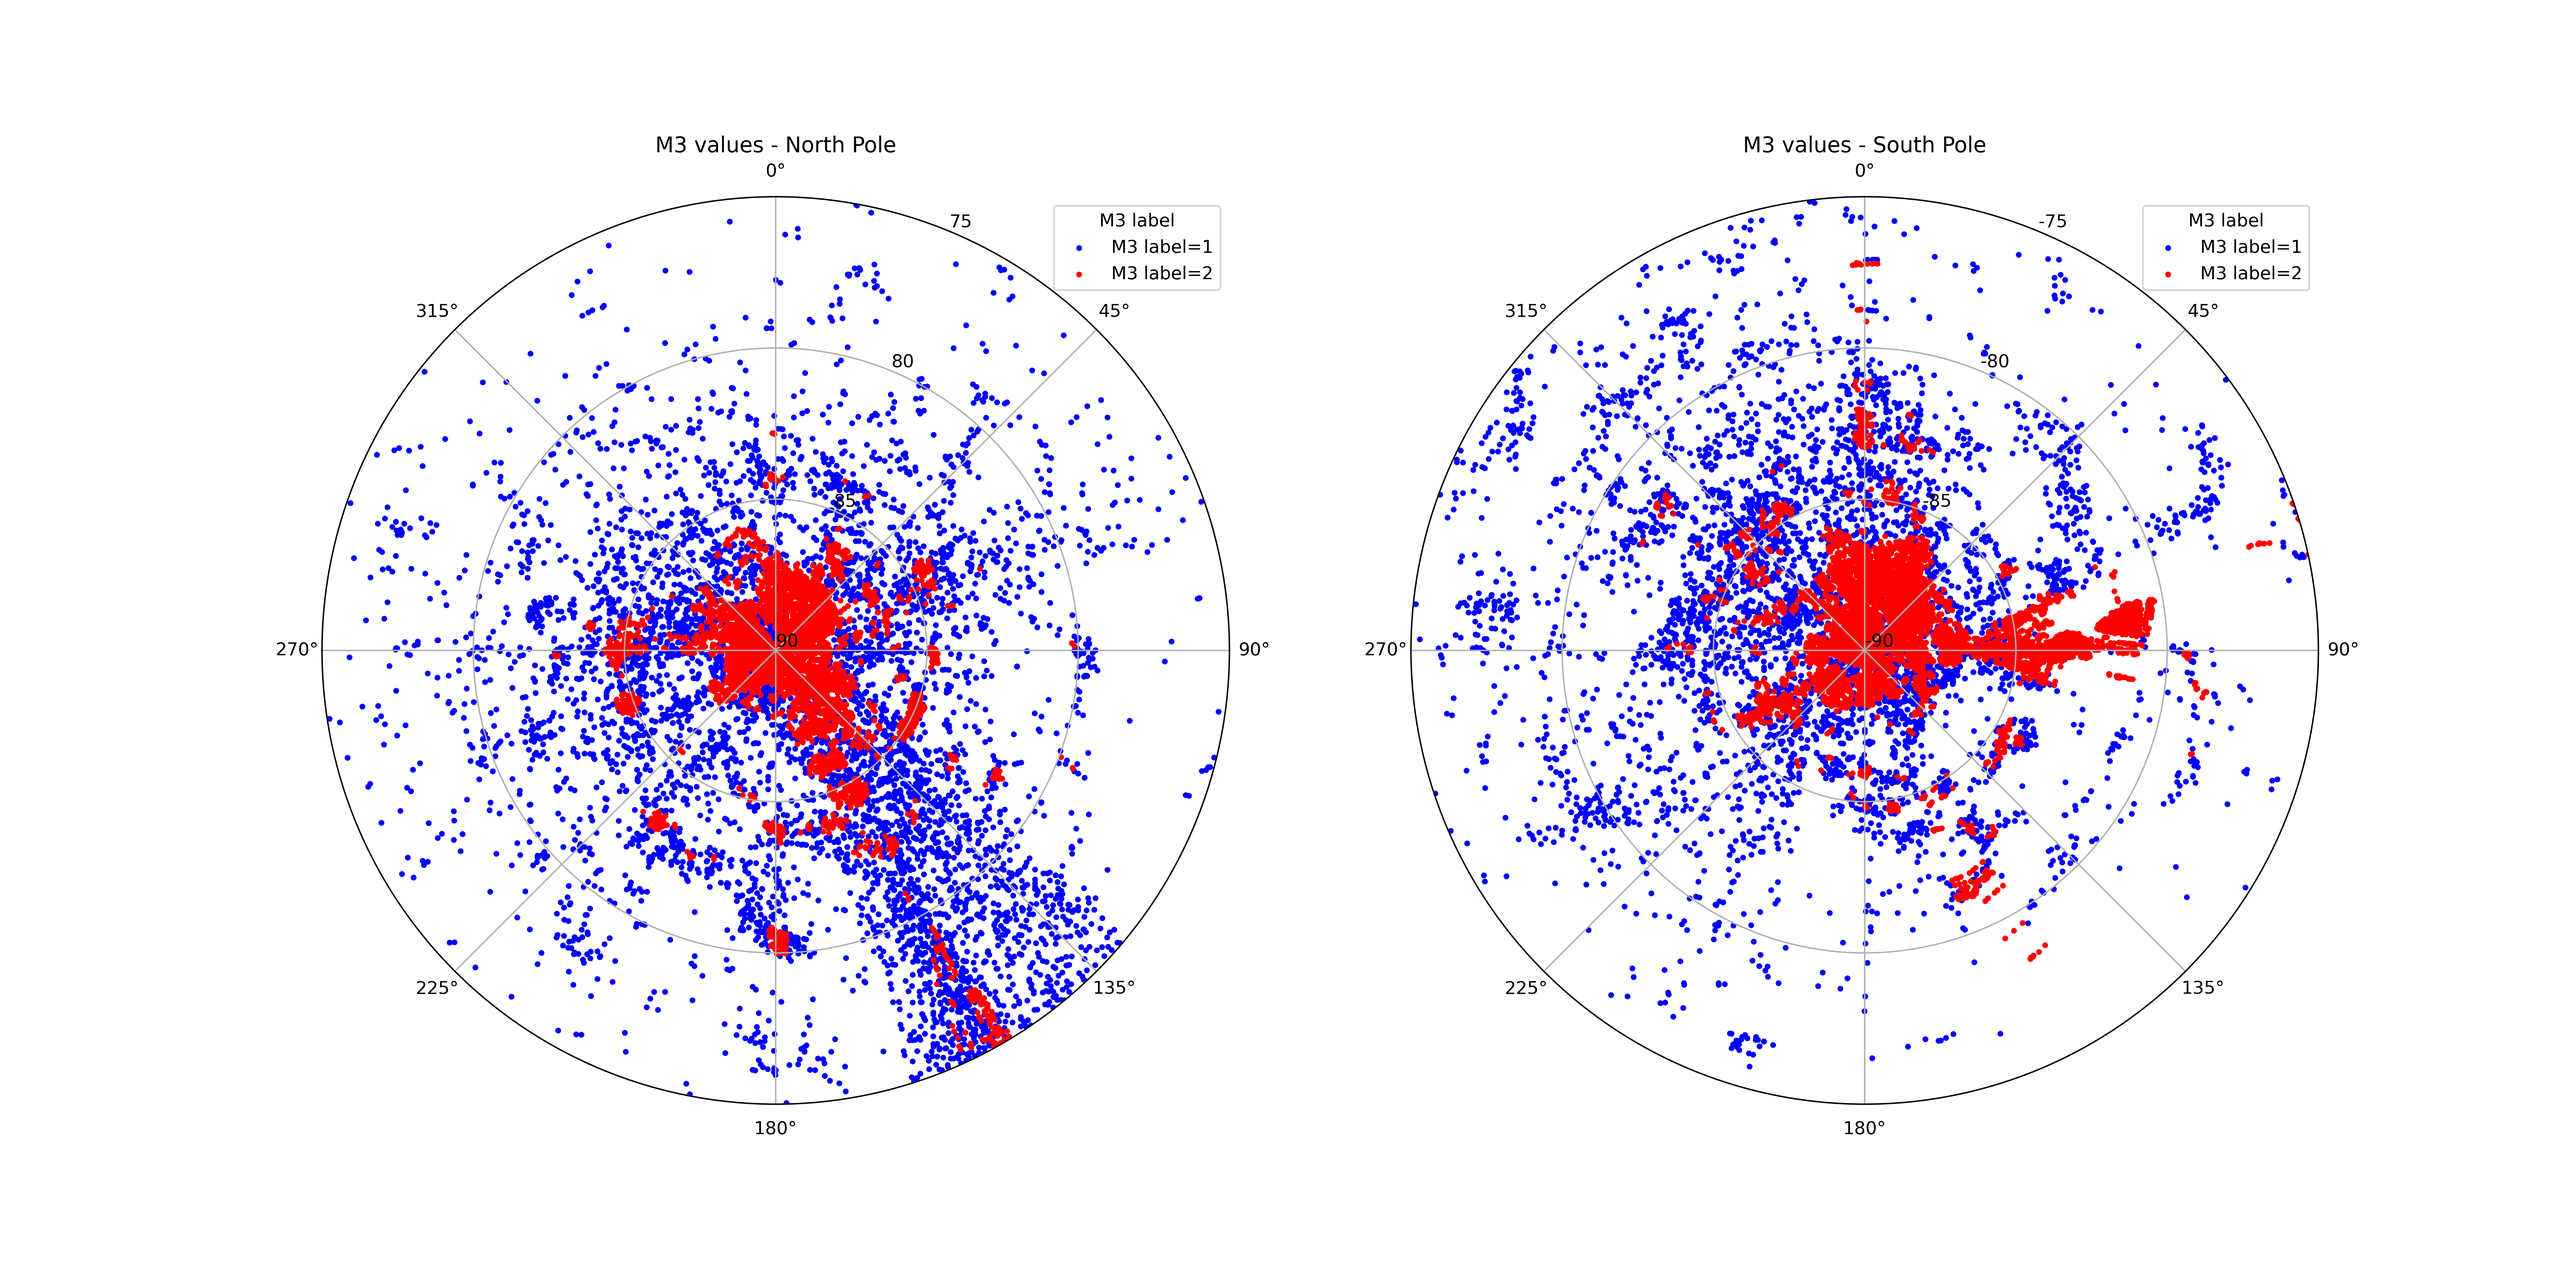
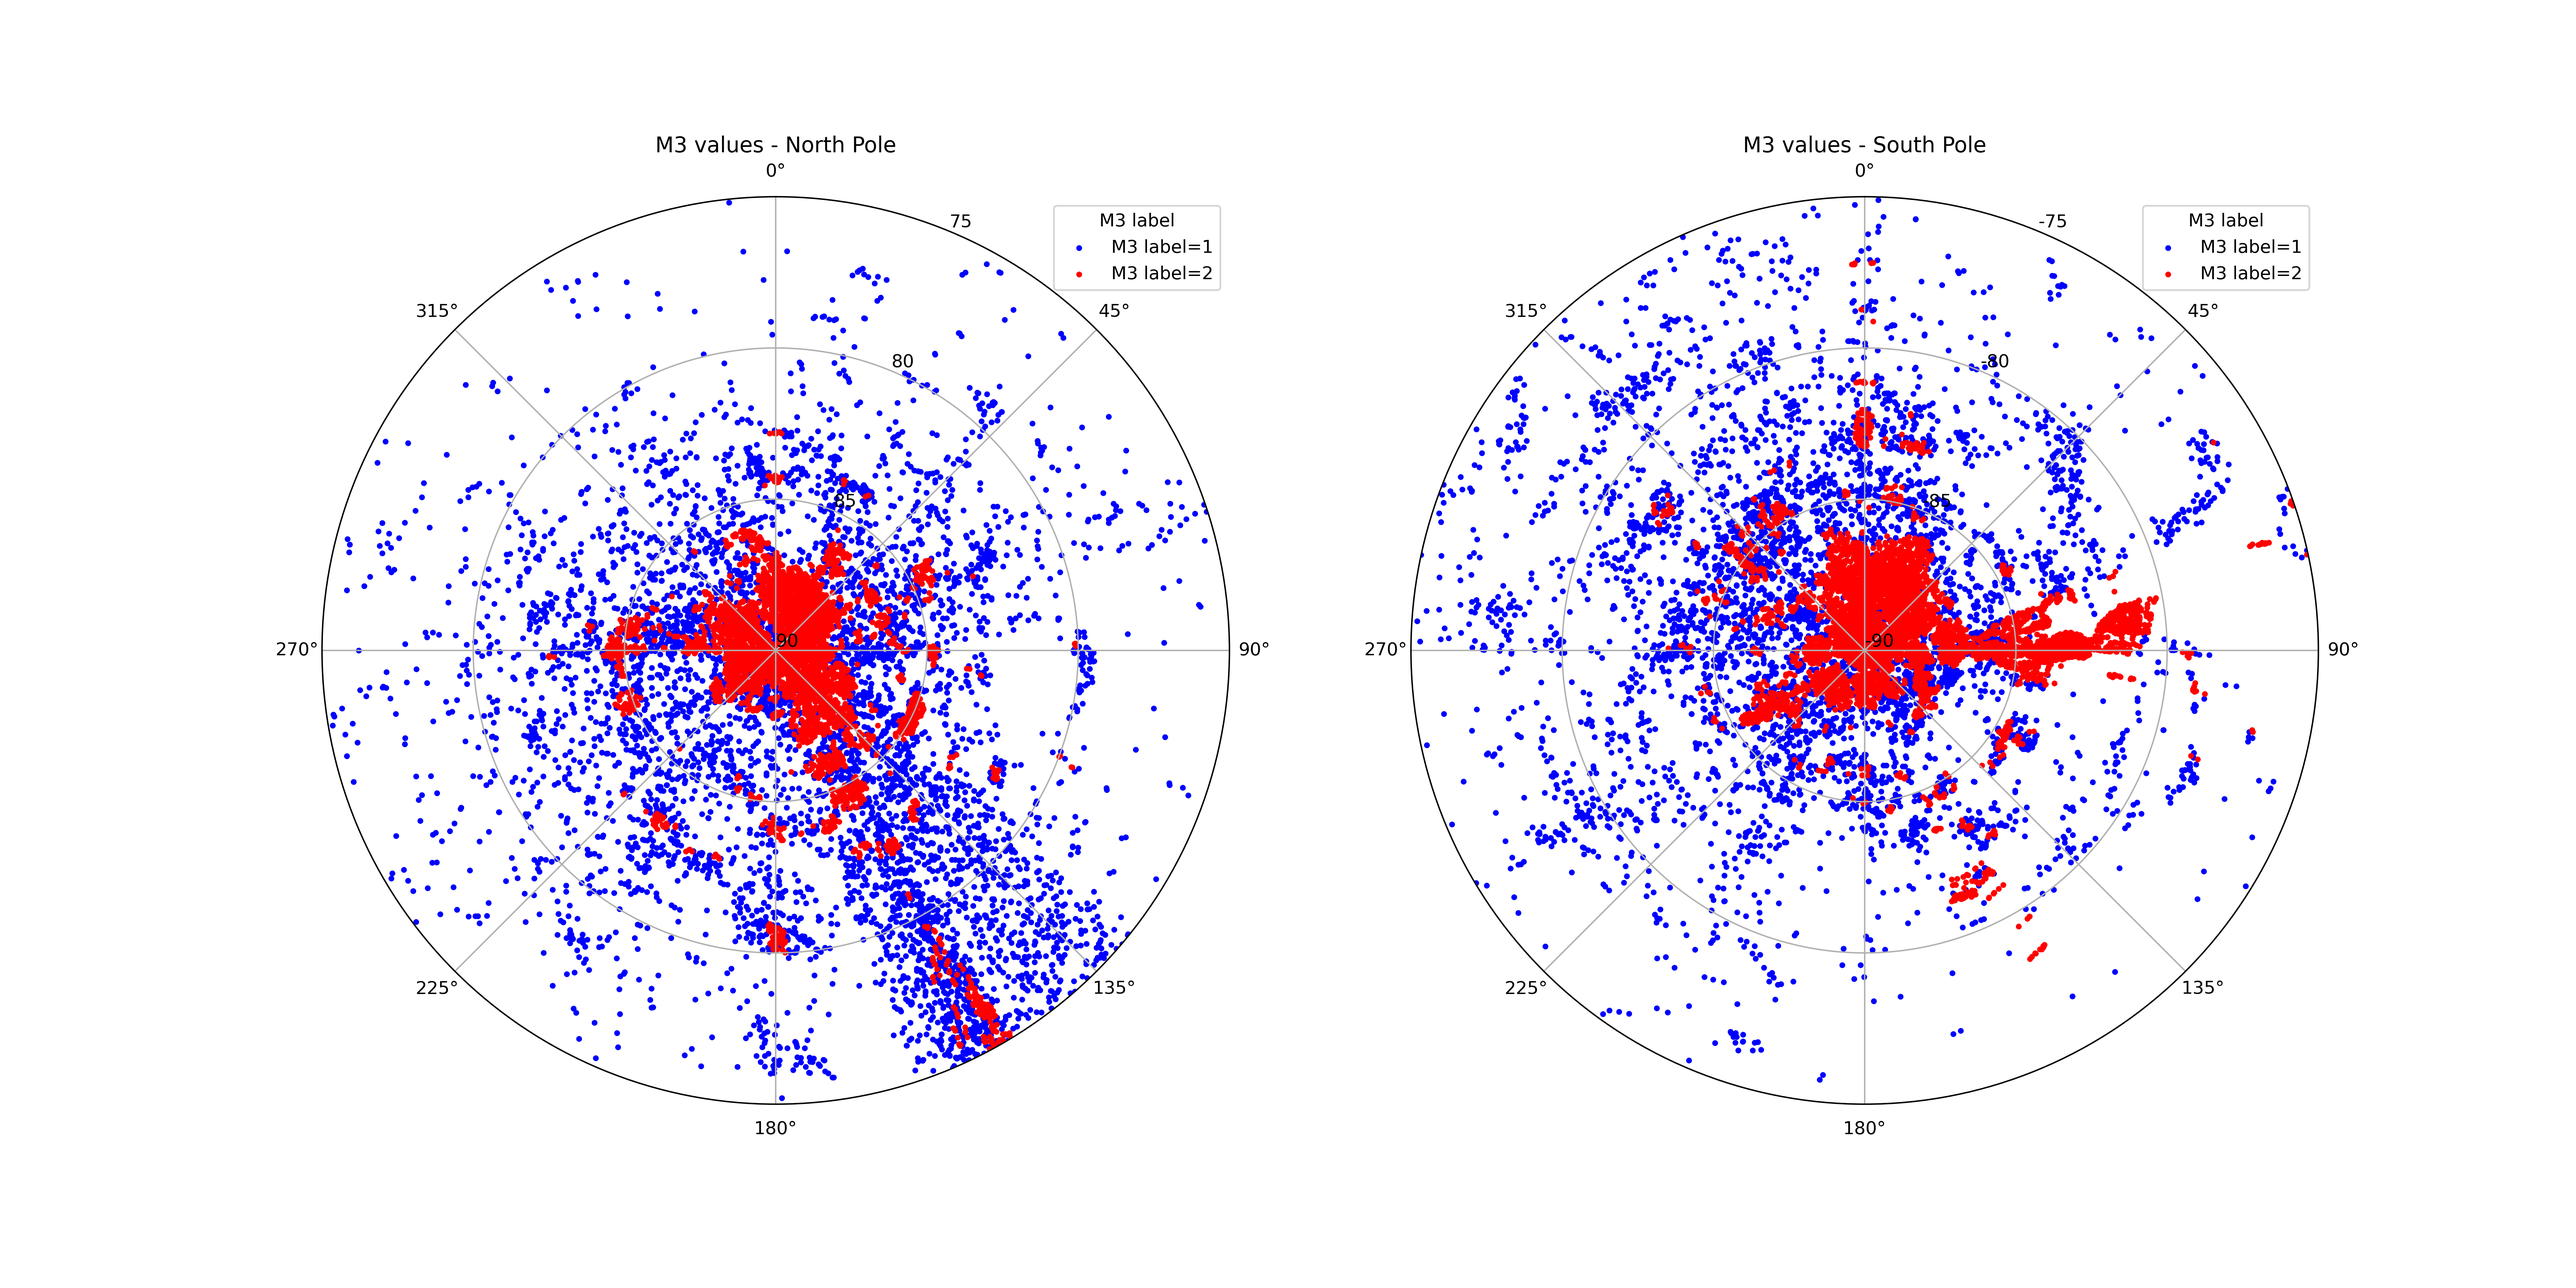
Final changes for SRW

diff --git a/data_processing/psr_test.py b/data_processing/psr_test.py
@@ -213,7 +213,7 @@ def merge_psr_df_2(psr_df, args, R_MOON_M=1_737_400):
     print("Original psr distribution:")
     print(psr_df["psr"].value_counts(normalize=True) * 100)
 
-    orig_val_cnt = combined_df["Label"].value_counts(normalize=True).mul(100).round(1).sort_index()
+    orig_val_cnt = combined_df["Label"].value_counts(normalize=True).mul(100).round(0).sort_index()
 
     combined_df_n = combined_df.loc[combined_df["Latitude"] >= 75].copy()
     combined_df_s = combined_df.loc[combined_df["Latitude"] <= -75].copy()
@@ -320,8 +320,8 @@ def merge_psr_df_2(psr_df, args, R_MOON_M=1_737_400):
 
     # print(f"\nLabel distribution after merging PSR data:")
     # print(df_merged["Label"].value_counts(normalize=True) * 100)
-    final_val_cnt = df_merged["Label"].value_counts(normalize=True).mul(100).round(1).sort_index()
-    assert np.all(final_val_cnt == orig_val_cnt), "Label proportions do not match original data"
+    final_val_cnt = df_merged["Label"].value_counts(normalize=True).mul(100).round(0).sort_index()
+    assert np.all(final_val_cnt == orig_val_cnt), f"Label proportions do not match original data: \n{final_val_cnt} \n!= \n{orig_val_cnt}"
     print("Final label distribution:")
     print(final_val_cnt)
 
@@ -434,23 +434,23 @@ def main(args):
     condition2 = (df_merged['Label'] >= lbl) & (df_merged['psr'] == 0)  # high label but NOT psr (FP)           - True -> 2
     condition3 = (df_merged['Label'] >= lbl) & (df_merged['psr'] == 1)  # BOTH high label and psr (TP)          - True -> 3
 
-    df_merged['temp'] = np.select(
+    df_merged['class'] = np.select(
         [condition1, condition2, condition3],
         [1, 2, 3],
         default=0  # Default value if none of the conditions are met
     )
     
-    print(f"Percentage of points with cat 0 (TN): {np.sum(df_merged['temp'] == 0) / df_merged.shape[0]:.2%}")
-    print(f"Percentage of points with cat 1 (FN): {np.sum(df_merged['temp'] == 1) / df_merged.shape[0]:.2%}")
-    print(f"Percentage of points with cat 2 (FP): {np.sum(df_merged['temp'] == 2) / df_merged.shape[0]:.2%}")
-    print(f"Percentage of points with cat 3 (TP): {np.sum(df_merged['temp'] == 3) / df_merged.shape[0]:.2%}")
+    print(f"Percentage of points with cat 0 (TN): {np.sum(df_merged['class'] == 0) / df_merged.shape[0]:.2%}")
+    print(f"Percentage of points with cat 1 (FN): {np.sum(df_merged['class'] == 1) / df_merged.shape[0]:.2%}")
+    print(f"Percentage of points with cat 2 (FP): {np.sum(df_merged['class'] == 2) / df_merged.shape[0]:.2%}")
+    print(f"Percentage of points with cat 3 (TP): {np.sum(df_merged['class'] == 3) / df_merged.shape[0]:.2%}")
 
-    plot_polar(df_merged, 'temp', args.plot_dir, mode='category', categories=[0, 1, 2, 3], cat_colours={0: 'black', 1: 'blue', 2: 'green', 3: 'red'}, frac=0.01, dpi=400, label_col='temp', poster=True)
+    plot_polar(df_merged, 'class', args.plot_dir, mode='category', categories=[0, 1, 2, 3], cat_colours={0: 'black', 1: 'blue', 2: 'green', 3: 'red'}, frac=0.01, dpi=400, label_col='class', poster=True)
     
     # Plot confusion matrix
     fig, ax = plt.subplots(figsize=(8, 6))
     labels = ['True Negatives', 'False Negatives', 'False Positives', 'True Positives']
-    counts = [np.sum(df_merged['temp'] == 0), np.sum(df_merged['temp'] == 1), np.sum(df_merged['temp'] == 2), np.sum(df_merged['temp'] == 3)]
+    counts = [np.sum(df_merged['class'] == 0), np.sum(df_merged['class'] == 1), np.sum(df_merged['class'] == 2), np.sum(df_merged['class'] == 3)]
     ax.bar(labels, counts, color=['black', 'blue', 'green', 'red'])
     ax.set_ylabel('Count')
     ax.set_title('Confusion Matrix')

diff --git a/data_processing/utils/utils.py b/data_processing/utils/utils.py
@@ -447,6 +447,88 @@ def plot_polar(
     print(f"Plot saved to {fname}")
     plt.close(fig)
 
+def plot_polar_overlay(
+    base_df,
+    overlay_df,
+    variable,
+    label_col,
+    save_path,
+    frac_base=0.1,
+    frac_overlay=0.01,
+    dpi=300,
+    poster=True,
+):
+    # 1) Prepare the two DataFrames
+    #   * sample them
+    base = base_df.sample(frac=frac_base, random_state=42)
+    over = overlay_df.sample(frac=frac_overlay, random_state=42)
+    
+    # 2) Compute polar coords
+    def to_polar(df, pole):
+        df = df.copy()
+        df['r'] = (90 - df['Latitude']) if pole=='north' else (90 + df['Latitude'])
+        df['theta'] = np.deg2rad(df['Longitude'])
+        return df
+
+    north_base = to_polar(base[base['Latitude'] >= 0], 'north')
+    south_base = to_polar(base[base['Latitude'] <  0], 'south')
+    north_over = to_polar(over[over['Latitude'] >= 0], 'north')
+    south_over = to_polar(over[over['Latitude'] <  0], 'south')
+
+    # 3) Make one figure
+    fig, (axN, axS) = plt.subplots(1, 2, subplot_kw={'projection': 'polar'}, figsize=(20, 10), facecolor='none')
+
+    for ax in (axN, axS):
+        pole = 'north' if ax == axN else 'south'
+        ax.set_facecolor('none')
+        ax.set_ylim(0,15)
+        ax.set_yticks(range(0,16,5))
+        labels = [str(90 - x) if pole == 'north' else str(-90 + x) for x in range(0, 16, 5)]
+        ax.set_yticklabels(labels)
+        ax.set_theta_zero_location('N')
+        ax.set_theta_direction(-1)
+
+    # 4) First, draw the background layer (interpolated → continuous greyscale)
+    def draw_continuous(ax, df):
+        sc = ax.scatter(
+            df['theta'], df['r'],
+            c=df[variable],
+            cmap='Greys_r',
+            s=5,
+            alpha=0.6,
+            zorder=1
+        )
+    
+    draw_continuous(axN, north_base)
+    draw_continuous(axS, south_base)
+
+    # 5) Then, on the very same axes, draw your labeled overlay
+    def draw_labels(ax, df):
+        df = df[df[label_col] > 0]
+        for cat, col in {1:'blue', 2:'red'}.items():    # or your cat_colours dict
+            sub = df[df[label_col]==cat]
+            ax.scatter(
+                sub['theta'], sub['r'],
+                c=col,
+                s=10,
+                label=f"{label_col}={cat}",
+                zorder=2  # higher than the greyscale dots
+            )
+        ax.legend(loc='upper right', title=label_col)
+
+    draw_labels(axN, north_over)
+    draw_labels(axS, south_over)
+
+    # 6) Save with transparent background
+    fname = f"{variable}_overlay.png"
+    kwargs = {'dpi':dpi}
+    if poster:
+        kwargs['transparent'] = True
+
+    plt.tight_layout()
+    plt.savefig(os.path.join(save_path, fname), **kwargs)
+    plt.close(fig)
+    print("Saved overlayed polar:", fname)
 
 def generate_xy_mesh(
     RESOLUTION_M: float = 300.0,

diff --git a/data_processing/utils/label.py b/data_processing/utils/label.py
@@ -10,7 +10,7 @@ from functools import partial
 from pyproj import CRS, Transformer, Proj, Geod
 import sys
 
-from data_processing.utils.utils import save_by_lon_range, load_csvs_parallel, plot_polar
+from data_processing.utils.utils import save_by_lon_range, load_csvs_parallel, plot_polar, plot_polar_overlay
 from data_processing.download_data import clear_dir
 
 
@@ -56,6 +56,7 @@ def label(df, dataset_dict, plot_dir, lola_area_thresh=3, m3_area_thresh=2.4, ep
 
     print(f"Taking the top {df[df['Diviner'] <= 110].shape[0] / df.shape[0] :.2%} of points from Diviner. Threshold = 110")
     plot_polar(df, 'Diviner', save_path=plot_save_path, mode='labeled', label_col='Diviner label', frac=0.01, dpi=400)
+    plot_polar_overlay(base_df=df, overlay_df=df, variable='Diviner', label_col='Diviner label', save_path=plot_save_path, dpi=400, poster=True)
     print()
 
     # -------------------- LOLA --------------------
@@ -68,6 +69,7 @@ def label(df, dataset_dict, plot_dir, lola_area_thresh=3, m3_area_thresh=2.4, ep
     apply_area_label_2(df, 'LOLA', lola_thresh_s, lola_area_thresh, 'above', 'south', eps=eps, min_cluster=min_cluster)
 
     plot_polar(df, 'LOLA', save_path=plot_save_path, mode='labeled', label_col='LOLA label', frac=0.01, dpi=400)
+    plot_polar_overlay(base_df=df, overlay_df=df, variable='LOLA', label_col='LOLA label', save_path=plot_save_path, dpi=400, poster=True)
     print()
 
     # -------------------- M3 --------------------
@@ -80,6 +82,7 @@ def label(df, dataset_dict, plot_dir, lola_area_thresh=3, m3_area_thresh=2.4, ep
     apply_area_label_2(df, 'M3', m3_thresh_s, m3_area_thresh, 'below', 'south', eps=eps, min_cluster=min_cluster)  # eps to 2.5
 
     plot_polar(df, 'M3', save_path=plot_save_path, mode='labeled', label_col='M3 label', frac=0.01, dpi=400)
+    plot_polar_overlay(base_df=df, overlay_df=df, variable='M3', label_col='M3 label', save_path=plot_save_path, dpi=400, poster=True)
     print()
 
     # -------------------- MiniRF --------------------
@@ -90,6 +93,7 @@ def label(df, dataset_dict, plot_dir, lola_area_thresh=3, m3_area_thresh=2.4, ep
     df.loc[df['MiniRF'] > MRF_thresh, 'MiniRF label'] += 1
 
     plot_polar(df, 'MiniRF', save_path=plot_save_path, mode='labeled', label_col='MiniRF label', frac=0.01, dpi=400)
+    plot_polar_overlay(base_df=df, overlay_df=df, variable='MiniRF', label_col='MiniRF label', save_path=plot_save_path, dpi=400, poster=True)
 
     # -------------------- Save labeled data --------------------
     save_by_lon_range(df, combined_save_path)

diff --git a/data_processing/utils/interp2.py b/data_processing/utils/interp2.py
@@ -145,7 +145,8 @@ def interpolate_diviner(df, mesh_north, mesh_south, block, MOON_RADIUS_M=1737.4e
 #                 out[s+i] = np.nanmax(values[idx])
 #     return out
 
-def max_rad_interp(tree, values, mesh, block, min_rad=450, passes=4):
+def max_rad_interp(tree, values, mesh, block, min_rad=350, passes=6):
+    # Start with a small radius and double it each pass
     out = np.full(mesh.shape[0], np.nan, dtype=values.dtype)
     todo = np.arange(mesh.shape[0])
     rad = min_rad
@@ -261,7 +262,7 @@ def interpolate(data_dict, data_type, plot_save_path=None, block=8_000_000):
     interpolated_df = pd.concat(df_list, ignore_index=True)
 
     if plot_save_path:
-        plot_polar(interpolated_df, data_type, frac=0.1, save_path=plot_save_path, name_add='interp')
+        plot_polar(interpolated_df, data_type, frac=0.1, save_path=plot_save_path, name_add='interp_poster', poster=True)
 
 
     print(f"\nInterpolated {data_type} df:")
